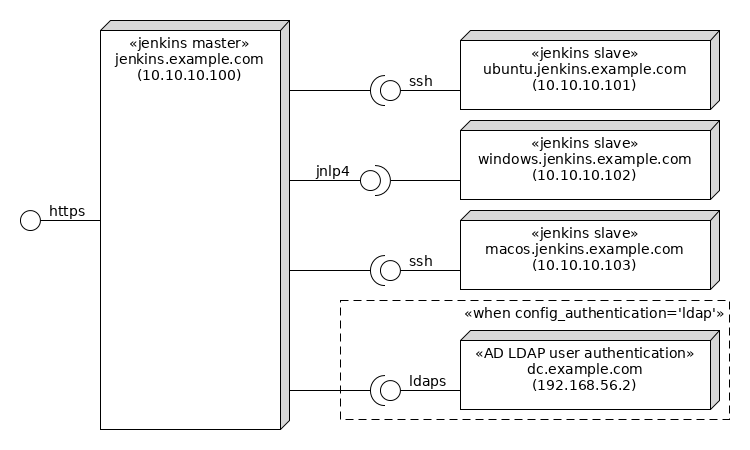
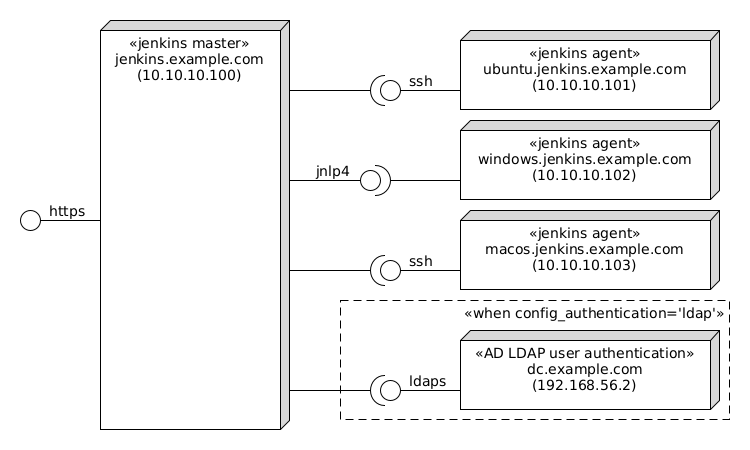
rename slave to agent

diff --git a/README.md b/README.md
@@ -13,13 +13,14 @@ This configures Jenkins through [CLI/JNLP](https://www.jenkins.io/doc/book/manag
 * Create Freestyle project job.
 * Create Pipeline job.
 * Create Multibranch Pipeline job.
-* Add a Ubuntu Linux slave node.
-* Add a Windows slave node.
+* Add a Ubuntu Linux agent node.
+  * With docker.
+* Add a Windows agent node.
   * With docker.
   * With enabled long path support on the OS and chocolatey.
   * With [MSYS2](https://github.com/msys2/msys2/wiki/MSYS2-introduction) to be able to use the `Execute shell` build step.
     * See the [example-execute-shell-windows](https://jenkins.example.com/job/example-execute-shell-windows) job.
-* Add a macOS slave node.
+* Add a macOS agent node.
 
 **NB** If you are new to Groovy, be sure to check the [Groovy Learn X in Y minutes page](https://learnxinyminutes.com/docs/groovy/).
 
@@ -54,11 +55,11 @@ one of the example accounts, e.g. `alice.doe` and password `password`).
 
 **NB** nginx is setup with a self-signed certificate that you have to trust before being able to access the local Jenkins home page.
 
-Run `vagrant up --no-destroy-on-error ubuntu` to launch the Ubuntu slave.
+Run `vagrant up --no-destroy-on-error ubuntu` to launch the Ubuntu agent.
 
-Run `vagrant up --no-destroy-on-error windows` to launch the Windows slave.
+Run `vagrant up --no-destroy-on-error windows` to launch the Windows agent.
 
-Run `vagrant up --no-destroy-on-error macos` to launch the macOS slave. **NB** you first need to download [Xcode_8.1.xip](https://developer.apple.com/download/more/).
+Run `vagrant up --no-destroy-on-error macos` to launch the macOS agent. **NB** you first need to download [Xcode_8.1.xip](https://developer.apple.com/download/more/).
 After provisioning you can delete it, as `Xcode_8.1.cpio.xz` will take its place as a more efficient way to install Xcode.
 
 Email notifications are sent to a local [MailHog](https://github.com/mailhog/MailHog) SMTP server running at localhost:1025 and you can browse them at [http://jenkins.example.com:8025](http://jenkins.example.com:8025).
